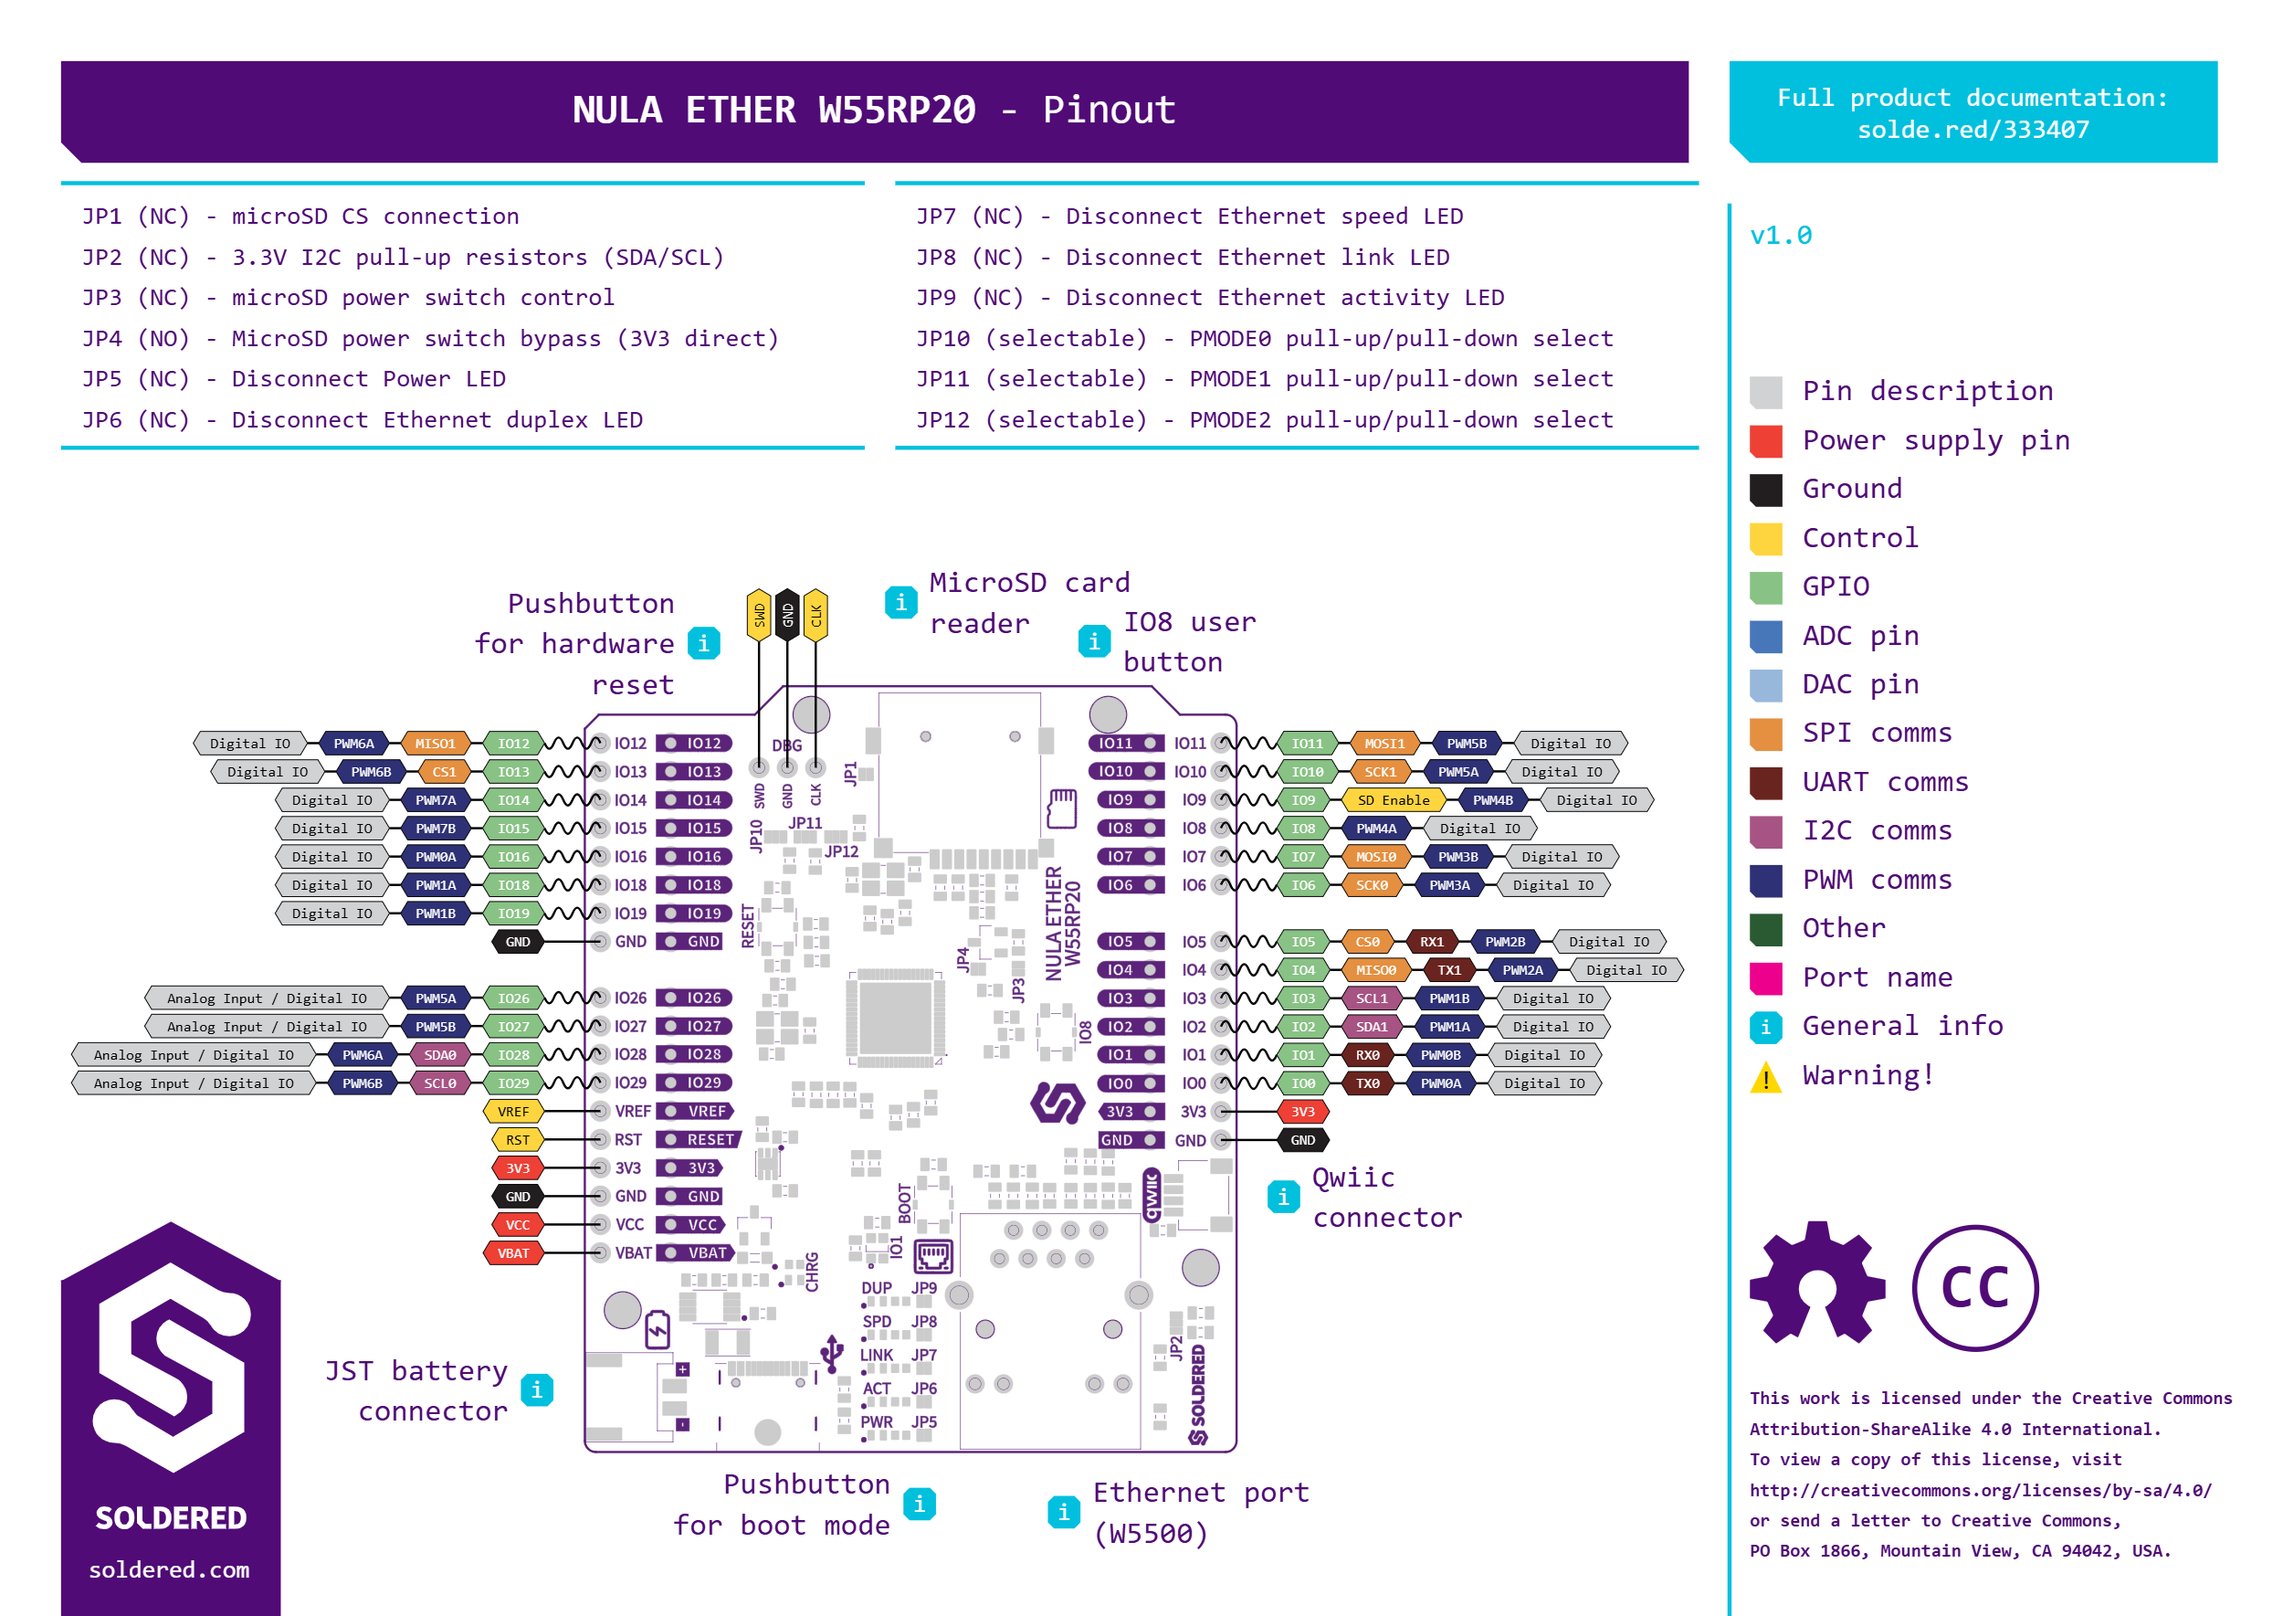
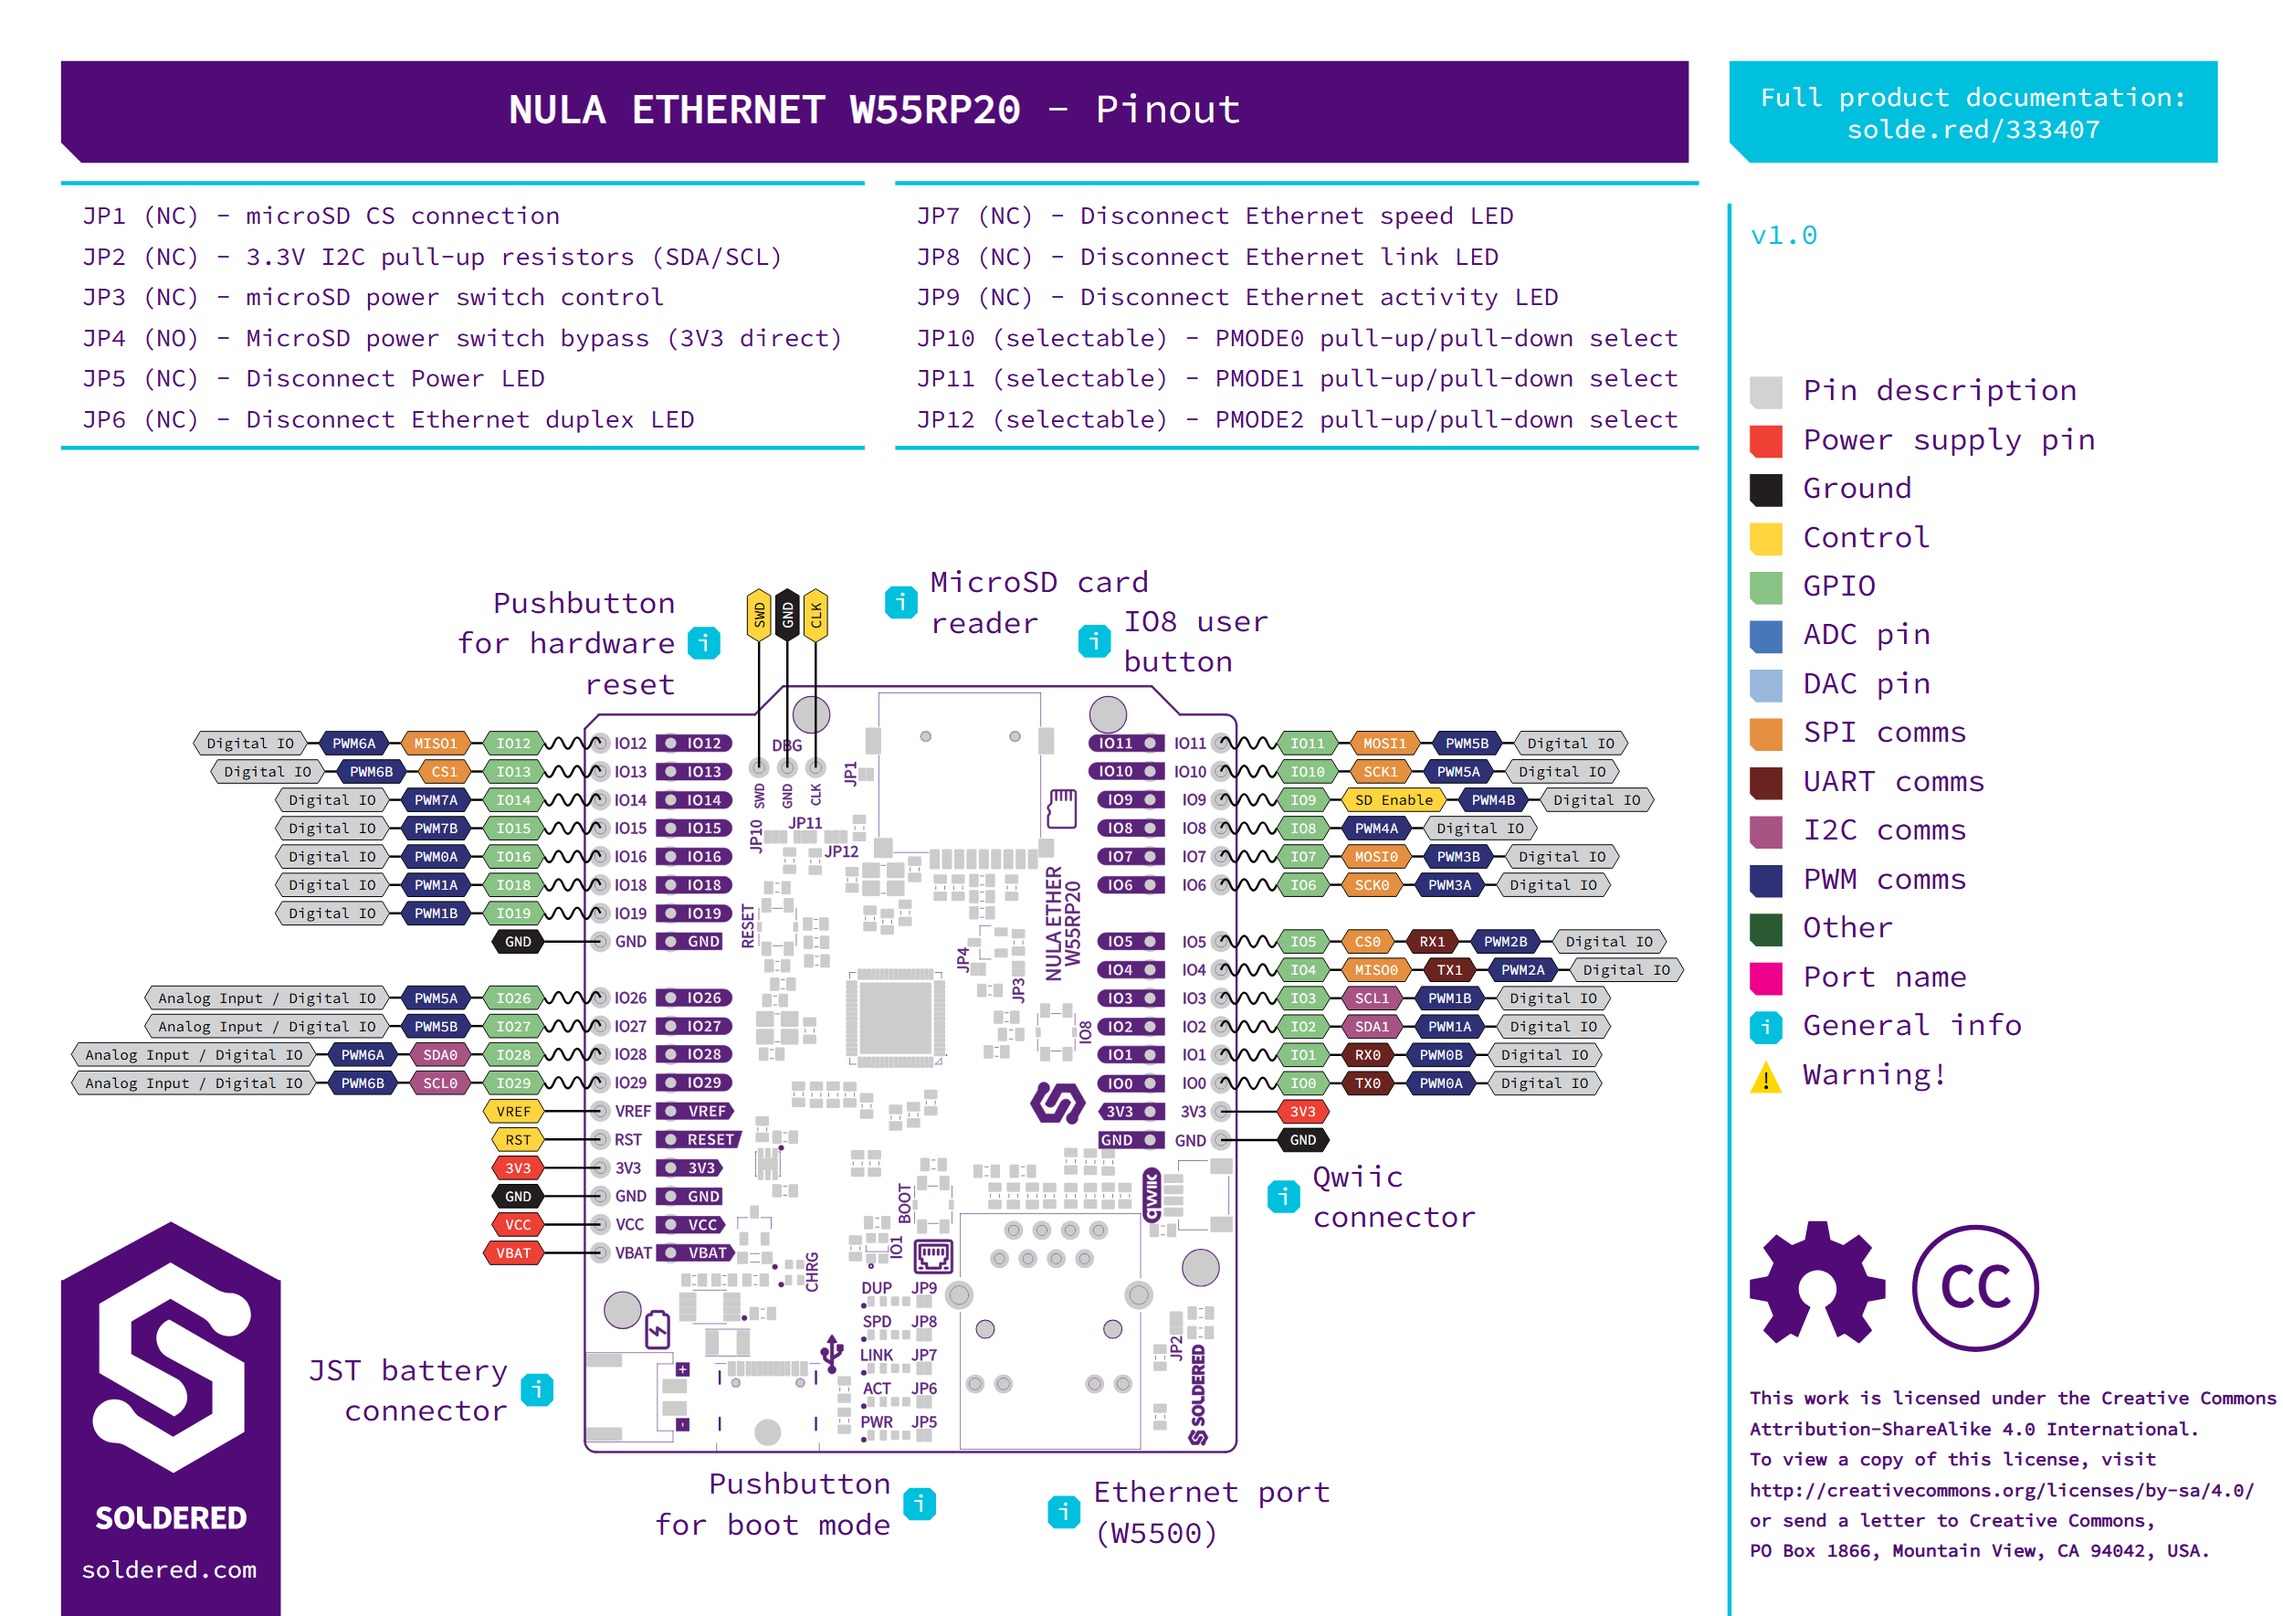
docs(nula-ethernet-w55rp20): use the product name and link the store page
The board sells as NULA Ethernet W55RP20, but the docs, the sidebar and the
pinout title called it NULA Ether W55RP20, and the product card pointed at
solde.red instead of the store.

- Rename to NULA Ethernet W55RP20 across the overview, hardware details,
  Arduino page and sidebar, and in the pinout title (the silkscreen in the
  drawing stays ETHER, as on the board)
- Product card links soldered.com/products/soldered-nula-ethernet-w55rp20,
  with the store render on the overview
- Key features: 10/100 Mbit/s, TP4056M charger, USB-A to USB-C cable in the box
- Hardware details: new Ethernet port section with the no auto-MDIX warning;
  drop the pinout placeholder from the microSD section until photos exist

diff --git a/soldered-documentation/sidebars.js b/soldered-documentation/sidebars.js
@@ -1100,7 +1100,7 @@ const sidebars = {
         },
         {
           type: 'category',
-          label: 'NULA Ether W55RP20',
+          label: 'NULA Ethernet W55RP20',
           items: [
             {
               type: 'doc',

diff --git a/soldered-documentation/docs/nula-boards/nula_w55rp20/nula_w55rp20_overview.md b/soldered-documentation/docs/nula-boards/nula_w55rp20/nula_w55rp20_overview.md
@@ -1,6 +1,6 @@
 ---
 slug: /nula_w55rp20/overview
-title: NULA Ether W55RP20 - Overview
+title: NULA Ethernet W55RP20 - Overview
 sidebar_label: Overview
 id: nula_w55rp20-overview
 hide_title: True
@@ -9,38 +9,31 @@ pagination_prev: null
 
 {/*
   TODO - pending items before this product page can go fully live:
-  - Product photo for the overview page, and onboard chip photo for how-it-works
+  - Onboard chip photo for how-it-works
   - Jumper photos for hardware details
-  - Store product link once the product is published (SKU 333407 confirmed from the board's own
-    pinout diagram, but solde.red/333407 still 404s - not live yet)
   - Hardware repository link (KiCad/Gerbers/BOM) once available
 */}
 
 # Overview
 
-## NULA Ether W55RP20
+## NULA Ethernet W55RP20
 
-The **NULA Ether W55RP20** is a development board built around the **WIZnet W55RP20** - a chip that combines the **Raspberry Pi RP2040** with a **hardwired W5500 Ethernet controller** in a single package. The board has a built-in **RJ45 Ethernet port**, **USB-C** for programming and power, a **Qwiic connector** for I2C peripherals, an onboard **microSD card reader**, and a **JST battery connector** for running off a single-cell Li-Ion/Li-Po battery.
+The **NULA Ethernet W55RP20** is a development board built around the **WIZnet W55RP20** - a chip that combines the **Raspberry Pi RP2040** with a **hardwired W5500 Ethernet controller** in a single package. The board has a built-in **RJ45 Ethernet port**, **USB-C** for programming and power, a **Qwiic connector** for I2C peripherals, an onboard **microSD card reader**, and a **JST battery connector** for running off a single-cell Li-Ion/Li-Po battery.
 
 Because the TCP/IP stack runs in hardware on the W5500, the RP2040 cores are free for your application code rather than managing network overhead in software.
 
-{/* <CenteredImage src="/img/nula_w55rp20/NULA_W55RP20.png" alt="NULA Ether W55RP20" caption="NULA Ether W55RP20"/> */}
+<CenteredImage src="/img/nula_w55rp20/NULA_W55RP20.png" alt="NULA Ethernet W55RP20" caption="NULA Ethernet W55RP20"/>
 
 ---
 
 ## Which product is this documentation for?
 
-<WarningBox>
-
-This product is not yet available in our store. Please check back soon!
-
-{/* <QuickLink
-  title="NULA Ether W55RP20"
-  description="333407"
-  url="https://solde.red/333407"
-/> */}
-
-</WarningBox>
+<QuickLink
+title="NULA Ethernet W55RP20"
+description="RP2040 development board with hardwired W5500 Ethernet, RJ45, microSD and Qwiic."
+url="https://soldered.com/products/soldered-nula-ethernet-w55rp20"
+image="/img/nula_w55rp20/333407.png"
+/>
 
 ---
 
@@ -50,19 +43,18 @@ This product is not yet available in our store. Please check back soon!
 - **Processor:** Dual-core ARM Cortex-M0+ @ 133 MHz
 - **SRAM:** 264 KB on-chip
 - **Flash:** 2 MB external
-- **Ethernet:** Hardwired TCP/IP - TCP, UDP, IPv4, ICMP, ARP, IGMP, PPPoE
+- **Ethernet:** 10/100 Mbit/s, hardwired TCP/IP - TCP, UDP, IPv4, ICMP, ARP, IGMP, PPPoE
 - **Simultaneous sockets:** Up to **8** independent hardware sockets
 - **Ethernet buffers:** 32 KB internal TX/RX
 - **USB-C:** Programming, power, and serial communication
 - **Qwiic:** Plug-and-play I2C sensor integration
 - **MicroSD card reader:** Onboard slot with card-detect, wired over SPI1
-- **Battery support:** JST connector and charge management for single-cell Li-Ion/Li-Po batteries
+- **Battery support:** JST connector and onboard TP4056M charger for single-cell Li-Ion/Li-Po batteries
 - **GPIO:** Access to RP2040 I/O pins (UART, SPI, I2C, PWM, ADC) - a handful of pins are reserved internally for the W5500, see the [hardware details](/nula_w55rp20/hardware) page
 - **Logic level:** 3.3 V
 - **ADC:** 12-bit, 0-3.3 V range
 - **Development support:** Arduino IDE, MicroPython, C/C++ SDK
-
-<WarningBox>GPIO pins are **not 5 V tolerant**. Connecting 5 V signals directly will damage the board.</WarningBox>
+- **In the box:** USB-A to USB-C cable
 
 ---
 
@@ -70,7 +62,7 @@ This product is not yet available in our store. Please check back soon!
 
 <QuickLink
   title="Qwiic cable"
-  description="Qwiic (formerly easyC) compatible cables with connectors on both ends, available in various lengths."
+  description="Qwiic compatible cables with connectors on both ends, available in various lengths."
   url="https://soldered.com/product/easyc-cable/"
   image="/img/333311.webp"
 />

diff --git a/soldered-documentation/docs/nula-boards/nula_w55rp20/nula_w55rp20_hardware_details.md b/soldered-documentation/docs/nula-boards/nula_w55rp20/nula_w55rp20_hardware_details.md
@@ -1,6 +1,6 @@
 ---
 slug: /nula_w55rp20/hardware
-title: NULA Ether W55RP20 - Hardware details
+title: NULA Ethernet W55RP20 - Hardware details
 sidebar_label: Hardware details
 id: nula_w55rp20-hardware
 hide_title: True
@@ -10,7 +10,7 @@ hide_title: True
 
 ## Pinout
 
-<CenteredImage src="/img/nula_w55rp20/Pinout.png" alt="NULA Ether W55RP20 pinout" caption="NULA Ether W55RP20 Pinout Diagram"/>
+<CenteredImage src="/img/nula_w55rp20/Pinout.png" alt="NULA Ethernet W55RP20 pinout" caption="NULA Ethernet W55RP20 Pinout Diagram"/>
 
 Click <a href="/img/nula_w55rp20/Pinout.png" target="_blank" rel="noopener noreferrer"><strong>here</strong></a> for a high-resolution version of the pinout.
 
@@ -56,6 +56,14 @@ The board labels its GPIO pins **IO0-IO29** on the silkscreen, the same conventi
 
 ---
 
+## Ethernet port
+
+The **RJ45 jack** has the Ethernet magnetics and two status LEDs built in, and runs at **10/100 Mbit/s**.
+
+<WarningBox>The W55RP20 does **not** support auto-MDIX. Use a **straight-through** Ethernet cable to a switch or router, and a **crossover** cable to connect directly to a computer, a server or another W55RP20.</WarningBox>
+
+---
+
 ## Qwiic connector
 
 <CenteredImage src="/img/easyc_transparent.png" alt="Qwiic connector" width="550px" />
@@ -83,13 +91,11 @@ The board labels its GPIO pins **IO0-IO29** on the silkscreen, the same conventi
 
 The board has an onboard microSD card slot, connected over SPI1 (**IO10-IO13**). **IO9** controls power to the card through an onboard switch (see **JP3** and **JP4** in [jumper details](#jumper-details)), and **IO13** only reaches the card's CS line if **JP1** is bridged.
 
-<CenteredImage src="/img/nula_w55rp20/Pinout.png" alt="NULA Ether W55RP20 microSD reader location" caption="The microSD card slot sits near the top of the board, next to the SWD debug header" width="700px" />
-
 ---
 
 ## Battery support
 
-The board has a **JST battery connector** and a **VBAT** pin, alongside a charge status indicator, so it can run from a single-cell Li-Ion/Li-Po battery instead of USB-C power.
+The board has a **JST battery connector** and a **VBAT** pin, with an onboard **TP4056M** charger and a charge status indicator, so it can run from a single-cell Li-Ion/Li-Po battery instead of USB-C power.
 
 ---
 
@@ -170,7 +176,7 @@ Schematics, KiCad files, Gerber files and more can be found in the GitHub reposi
 {/* Once the repo is live, replace the WarningBox above with:
 
 <QuickLink
-  title="NULA Ether W55RP20 Hardware Design"
+  title="NULA Ethernet W55RP20 Hardware Design"
   description="GitHub hardware repository for this product"
   url="https://github.com/SolderedElectronics/..."
 />

diff --git a/soldered-documentation/docs/nula-boards/nula_w55rp20/nula_w55rp20_arduino_1.md b/soldered-documentation/docs/nula-boards/nula_w55rp20/nula_w55rp20_arduino_1.md
@@ -1,6 +1,6 @@
 ---
 slug: /nula_w55rp20/arduino/getting-started
-title: NULA Ether W55RP20 - Getting started with Arduino
+title: NULA Ethernet W55RP20 - Getting started with Arduino
 sidebar_label: Getting started with Arduino
 id: nula_w55rp20-arduino-1
 hide_title: True
@@ -11,7 +11,7 @@ pagination_next: null
 
 ## Arduino board definition
 
-To program the **NULA Ether W55RP20**, use the **RP2040 Arduino core** by Earle Philhower:
+To program the **NULA Ethernet W55RP20**, use the **RP2040 Arduino core** by Earle Philhower:
 
 <QuickLink
   title="RP2040 Arduino core"
@@ -146,7 +146,7 @@ Open the **Serial Monitor** at **115200 baud**. The board will print its IP addr
   description="Creates the Ethernet object. The argument is the GPIO pin connected to the W5500 chip select."
   returnDescription="None."
   parameters={[
-    { type: 'int', name: 'cs', description: 'Chip select pin number. Use 20 for the NULA Ether W55RP20.' },
+    { type: 'int', name: 'cs', description: 'Chip select pin number. Use 20 for the NULA Ethernet W55RP20.' },
   ]}
 />
 
